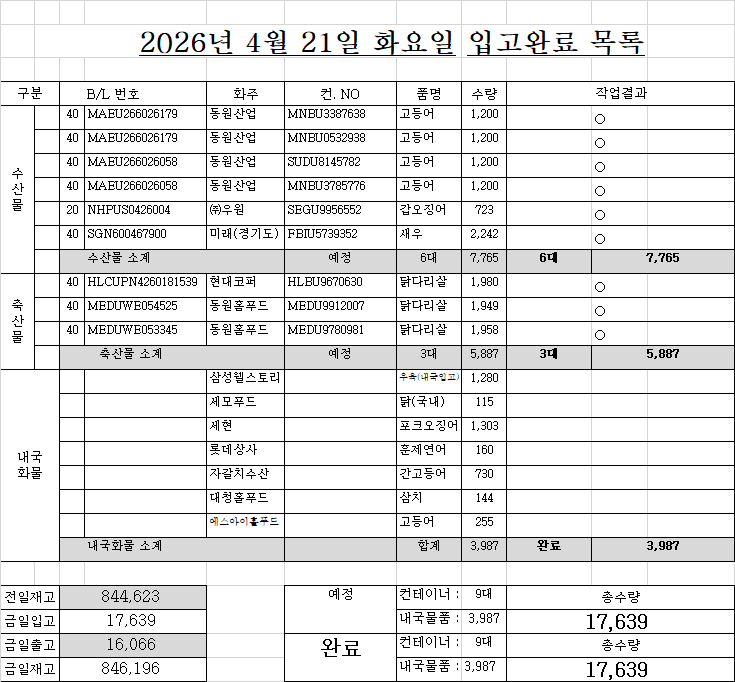
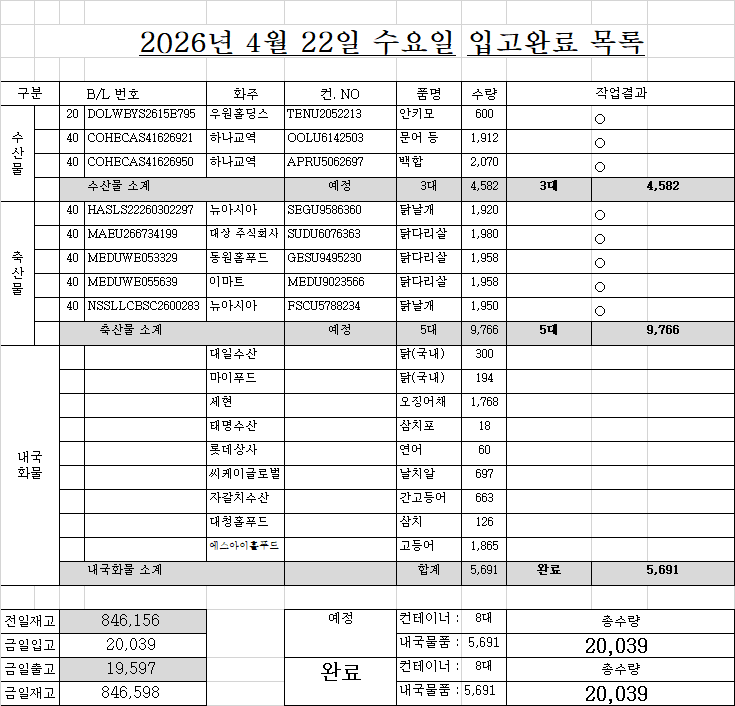
0422

diff --git a/list.html b/list.html
@@ -160,46 +160,50 @@
 </div>
 <!-- ★★★★★★ 따로 빼 놔야한다. 복붙하면 첫칸 비어도 되는데, 여기서는 첫칸비우면 당겨진다. -->
 <!-- ★ 엑셀범위를 브라우저 textarea에 붙여넣으면 첫셀 비어도 제대로 되는데... HTML에 붙여놓은 자료는 처음셀이 비어있으면 당겨짐 -->
-<div class="d-none" id="원본text_리스트1부터w요약열까지">작성	면허	B/LNO.	화주	컨테이너NO.	품명	수량	반입NO.	입항일	구분	도착일	도착시간	구분	운도VBA	04/21 화 16:44	화찰BL	화찰 선명	화물관리번호	화찰수량	화찰중량	화찰입항	리스트시트기준열	
-1		DOLWBYS2616E795	우원홀딩스	TENU2052213	안키모	600 		4/15	1			20	SS북항인터7부두								04/21 화 16:44	
-1	○	COHECAS41626921	하나교역	OOLU6142503	문어 등	1,912 		4/20	1	4/21	08:31			(주)에스에스물류, CY : 신선대감만터미널(주) 신선대CY, 컨진행 : 반출완료, 선사 : 코스코쉬핑한국(주), 포딩 : 주식회사 글로벌해현	COHECAS41626921	COSCO FOS	26COHEF416I-8801-0001	1,912 	20,900.00 	2026.04.20	조회정보	
-1	○	COHECAS41626950	하나교역	APRU5062697	백합	2,070 		4/20	1					(주)케이씨티시, CY : 케이씨티시우암컨테이너보세창고, 컨진행 : 보세운송 신고 수리, 선사 : 코스코쉬핑한국(주), 포딩 : 주식회사 글로벌해현	COHECAS41626950	COSCO FOS	26COHEF416I-6001-0001	2,070 	24,240.00 	2026.04.20	적재	57
-1		NSSLLCBSC2600280	뉴아시아	SZLU9370821	닭날개	1,950 		4/11	2				BPT신선대	면허?, CY : 신선대감만터미널(주) 신선대CY, 컨진행 : 반입완료, 선사 : 범주해운(주)	NSSLLCBSC2600280	PANCON BRIDGE	26PCLUBK05I-3029-	1,950 	24,765.00 	2026.04.11	4,617 	3줄
-1	○	HASLS22260302297	뉴아시아	SEGU9586360	닭날개	1,920 		4/18	2				BPT신선대	에이스로지스틱(주), CY : 신선대감만터미널(주) 신선대CY, 컨진행 : 보세운송 신고 수리, 선사 : 흥아라인 주식회사	HASLS22260302297	HEUNG-A HOCHIMINH	26HASL0553I-2064-	1,920 	24,000.00 	2026.04.18	6,156 	4줄
-1	○	MAEU266734199	대상 주식회사	SUDU6076363	닭다리살	1,980 		4/18	2	4/21	14:38			(주)골든로지텍, CY : 부산신항만(주)자유무역지역, 컨진행 : 반출완료, 선사 : 한국머스크(주)	MAEU266734199	MAERSK CAP JERVIS	26MAEU0235I-1089-	1,980 	24,924.24 	2026.04.18	7,695 	5줄
-1	○	MEDUWE053329	동원홈푸드	GESU9495230	닭다리살	1,958 		4/18	2	4/20	11:58		확인안함	천일정기화물자동차(주), CY : 부산신항만(주)자유무역지역, 컨진행 : 반출완료, 선사 : 엠에스씨코리아(주)	MEDUWE053329	MSC IVANA	26MSCU6113I-0220-	1,958 	24,486.70 	2026.04.18	9,234 	6줄
-1	○	MEDUWE055639	이마트	MEDU9023566	닭다리살	1,958 		4/18	2				확인안함	(주)에스에스물류, CY : 부산신항만(주)자유무역지역, 컨진행 : 보세운송 신고 수리, 선사 : 엠에스씨코리아(주)	MEDUWE055639	MSC IVANA	26MSCU6113I-0232-	1,958 	24,450.75 	2026.04.18	구분	대수
-1		NSSLLCBSC2600283	뉴아시아	FSCU5788234	닭날개	1,950 		4/19	2				허치슨감만	면허?, CY : 신감만 한국허치슨(주) 컨테이너 보세창고, 컨진행 : 반입완료, 선사 : 천경해운(주)	NSSLLCBSC2600283	SKY CHALLENGE	26CKCO0425I-3004-	1,950 	24,765.00 	2026.04.19	출고입고	4주간
-1	○	HLCUPN4260178090	대상 주식회사	HLXU8771686	닭발	1,567 		4/20	2					면허?, CY : 부산신항만(주)자유무역지역, 컨진행 : 반입완료, 선사 : 한국머스크(주)	HLCUPN4260178090	MAERSK SARNIA	26MAEU0237I-7654-	1,567 	24,304.17 	2026.04.20	1일 7/5	9바닥줄
-1	○	HLCUPN4260178089	대상 주식회사	HLBU9393500	닭발	1,567 		4/20	2					면허?, CY : 부산신항만(주)자유무역지역, 컨진행 : 반입완료, 선사 : 한국머스크(주)	HLCUPN4260178089	MAERSK SARNIA	26MAEU0237I-7653-	1,567 	24,304.17 	2026.04.20	14,836 	9.6
-2	○	ONEYSCLG05282400	롯데상사	ONEU9431941	연어	662 		4/19	1				PNIT	(주)에스에스물류, CY : 부산신항국제터미널(주), 컨진행 : 보세운송 신고 수리, 선사 : 하파그로이드코리아(주)	ONEYSCLG05282400	LIMA EXPRESS	26HLCU9405I-5007-	662 	22,963.98 	2026.04.19	14,818 	9.6
-2	○	LMM0576989	삼영수산	SZLU5078410	오징어	1,100 		4/21	1				BNCT		LMM0576989	APL CHARLESTON	26CMAL0174I-2043-	2,200 	48,020.00 	2026.04.21	내국제외	
-2	○	LMM0576989	삼영수산	SZLU5081918	오징어	1,100 		4/21	1				BNCT		LMM0576989	APL CHARLESTON	26CMAL0174I-2043-	2,200 	48,020.00 	2026.04.21	구분	대수
-2	○	LMM0576990	삼영수산	TEMU9420669	오징어	1,100 		4/21	1				BNCT	(주)이지트랜스, CY : (주)비엔씨티(CY), 컨진행 : 보세운송 신고 수리, 선사 : 씨엠에이씨지엠	LMM0576990	APL CHARLESTON	26CMAL0174I-2044-	2,200 	48,670.00 	2026.04.21	수산	19 
-2	○	LMM0576990	삼영수산	CGMU9399722	오징어	1,100 		4/21	1				BNCT	(주)이지트랜스, CY : (주)비엔씨티(CY), 컨진행 : 보세운송 신고 수리, 선사 : 씨엠에이씨지엠	LMM0576990	APL CHARLESTON	26CMAL0174I-2044-	2,200 	48,670.00 	2026.04.21	축산	56 
-2	○	SMLMSGN6A2122500	씨에이치씨	FBIU7512619	새우	1,000 		4/21	1			20		면허?, CY : 신감만 한국허치슨(주) 컨테이너 보세창고, 컨진행 : 반입완료, 선사 : 남성해운주식회사	SMLMSGN6A2122500	STARSHIP PEGASUS	26NSSLD077I-0003-	1,000 	7,200.00 	2026.04.21	합계	75 
+<div class="d-none" id="원본text_리스트1부터w요약열까지">작성	면허	B/LNO.	화주	컨테이너NO.	품명	수량	반입NO.	입항일	구분	도착일	도착시간	구분	운도VBA	04/22 수 16:25	화찰BL	화찰 선명	화물관리번호	화찰수량	화찰중량	화찰입항	리스트시트기준열	
+1	○	ONEYSCLG05282400	롯데상사	ONEU9431941	연어	662 		4/19	1				PNIT	(주)에스에스물류, CY : 부산신항국제터미널(주), 컨진행 : 보세운송 신고 수리, 선사 : 하파그로이드코리아(주)	ONEYSCLG05282400	LIMA EXPRESS	26HLCU9405I-5007-	662 	22,963.98 	2026.04.19	04/22 수 16:25	
+1	○	A59GX10486	우원홀딩스	SEKU9387743	새우	1,307 		4/20	1			20			A59GX10486	KOTA GAYA	26PILK0023I-9014-	1,307 	8,626.20 	2026.04.20	조회정보	
+1	○	LMM0576989	삼영수산	SZLU5078410	오징어	1,100 		4/21	1				BNCT	(주)이지트랜스, CY : (주)비엔씨티(CY), 컨진행 : 반입완료, 선사 : 씨엠에이씨지엠	LMM0576989	APL CHARLESTON	26CMAL0174I-2043-	2,200 	48,020.00 	2026.04.21	적재	57
+1	○	LMM0576989	삼영수산	SZLU5081918	오징어	1,100 		4/21	1				BNCT	(주)이지트랜스, CY : (주)비엔씨티(CY), 컨진행 : 반입완료, 선사 : 씨엠에이씨지엠	LMM0576989	APL CHARLESTON	26CMAL0174I-2043-	2,200 	48,020.00 	2026.04.21	4,617 	3줄
+1	○	LMM0576990	삼영수산	TEMU9420669	오징어	1,100 		4/21	1				BNCT	(주)이지트랜스, CY : (주)비엔씨티(CY), 컨진행 : 반입완료, 선사 : 씨엠에이씨지엠	LMM0576990	APL CHARLESTON	26CMAL0174I-2044-	2,200 	48,670.00 	2026.04.21	6,156 	4줄
+1	○	LMM0576990	삼영수산	CGMU9399722	오징어	1,100 		4/21	1				BNCT	(주)이지트랜스, CY : (주)비엔씨티(CY), 컨진행 : 반입완료, 선사 : 씨엠에이씨지엠	LMM0576990	APL CHARLESTON	26CMAL0174I-2044-	2,200 	48,670.00 	2026.04.21	7,695 	5줄
+1	○	SMLMSGN6A2122500	씨에이치씨	FBIU7512619	새우	1,000 		4/21	1			20		(주)에스에스물류, CY : 신감만 한국허치슨(주) 컨테이너 보세창고, 컨진행 : 보세운송 신고 수리, 선사 : 남성해운주식회사	SMLMSGN6A2122500	STARSHIP PEGASUS	26NSSLD077I-0003-	1,000 	7,200.00 	2026.04.21	9,234 	6줄
+1	○	KMTCSUB2479978	씨케이글로벌	OTPU6659547	새우	1,800 		4/21	1					면허?, CY : 신감만 한국허치슨(주) 컨테이너 보세창고, 컨진행 : 반입완료, 선사 : 고려해운(주)	KMTCSUB2479978	KMTC SHIMIZU	26KMTC1331I-0175-	1,800 	21,600.00 	2026.04.21	구분	대수
+1	○	NSSLLCBSC2600280	뉴아시아	SZLU9370821	닭날개	1,950 		4/11	2				BPT신선대	에이스로지스틱(주), CY : 신선대감만터미널(주) 신선대CY, 컨진행 : 보세운송 신고 수리, 선사 : 범주해운(주)	NSSLLCBSC2600280	PANCON BRIDGE	26PCLUBK05I-3029-	1,950 	24,765.00 	2026.04.11	출고입고	4주간
+1	○	HLCUPN4260178090	대상 주식회사	HLXU8771686	닭발	1,567 		4/20	2					(주)골든로지텍, CY : 부산신항만(주)자유무역지역, 컨진행 : 보세운송 신고 수리, 선사 : 한국머스크(주)	HLCUPN4260178090	MAERSK SARNIA	26MAEU0237I-7654-	1,567 	24,304.17 	2026.04.20	1일 7/5	9바닥줄
+1	○	HLCUPN4260178089	대상 주식회사	HLBU9393500	닭발	1,567 		4/20	2					(주)골든로지텍, CY : 부산신항만(주)자유무역지역, 컨진행 : 보세운송 신고 수리, 선사 : 한국머스크(주)	HLCUPN4260178089	MAERSK SARNIA	26MAEU0237I-7653-	1,567 	24,304.17 	2026.04.20	15,536 	10.1
+1	○	MEDUR3100944	이마트	SZLU9307140	닭다리살	1,939 		4/20	2				DGT		MEDUR3100944	MSC ANGOLA	26MSCU2083I-1015-	1,939 	24,213.46 	2026.04.20	14,892 	9.7
+2	○	DJSCLCH260001019	참트레이딩	OTPU6568344	닭발	1,794 		4/21	2						DJSCLCH260001019	DONGJIN CONFIDENT	26DJSC7088I-5107-	1,794 	22,604.40 	2026.04.21	내국제외	
+2	○	LMM0578356	삼영수산	TCLU1362825	오징어	1,065 		4/22	1						LMM0578356	CMA CGM MEKONG	26CMAL0184I-2056-	2,130 	49,430.00 	2026.04.22	구분	대수
+2	○	LMM0578356	삼영수산	CRSU6156379	오징어	1,065 		4/22	1						LMM0578356	CMA CGM MEKONG	26CMAL0184I-2056-	2,130 	49,430.00 	2026.04.22	수산	21 
+2	○	HASLS22260400234	뉴아시아	FSCU5894220	닭날개	1,940 		4/23	2				?????,BPT신선대		HASLS22260400234	PEGASUS PROTO	26NSSLD076I-3520-	1,940 	24,444.00 	2026.04.23	축산	55 
+		ONEYSAOG06681903	수월한	OTPU6351240	닭다리살	1,917 		4/6	2												합계	76 
 		ONEYSAOG06681909	씨제이프레시웨이㈜	ONEU9276911	닭다리살	1,960 		4/6	2				DGT	면허?, CY : 동원글로벌터미널부산(주), 컨진행 : 반입완료, 선사 : 에이치엠엠(주)	ONEYSAOG06681909	HMM PRIVILEGE	26HDMUA192I-5137-	1,960 	24,500.00 	2026.04.06		
 		HDMUSGNA24257302	우원홀딩스	HMMU5200300	새우	971 		4/14	1			20									화주	대수
-		ONEYSAOG07895304	씨제이프레시웨이㈜	FSCU5734201	닭다리살	1,960 		4/15	2				HPNT	면허?, CY : 에이치엠엠피에스에이신항만(주), 컨진행 : 반입완료, 선사 : 에이치엠엠(주)	ONEYSAOG07895304	HMM TOPAZ	26HDMUA241I-5028-	1,960 	24,500.00 	2026.04.15	수월한	18
-		HLCUPN4251170322	대상 주식회사	TCLU1206479	닭발	1,567 		4/18	2												삼영수산	6
-		MAEUJBS307152	동원홈푸드	MNBU3009140	닭다리살	1,958 		4/18	2				PNC			MAERSK CAP JERVIS					이마트	6
-		KMTCSUB2479978	씨케이글로벌	OTPU6659547	새우	1,800 		4/21	1					면허?, CY : 신감만 한국허치슨(주) 컨테이너 보세창고, 컨진행 : 하선신고 수리완료, 선사 : 고려해운(주)	KMTCSUB2479978	KMTC SHIMIZU	26KMTC1331I-0175-	1,800 	21,600.00 	2026.04.21	㈜이마트	6
-		SNG0499365	(유)SM무역	CGMU5228953	오징어	1,200 		4/22	1				BNCT			APL CHARLESTON(ACSAE)					씨케이글로벌	4
-		NWONB26W23013	세현	AXIU6079117	오징어	1,200 		4/23	1												뉴아시아	4
-		HASLS22260400234	주식회사 뉴아시아 (동일)	FSCU5894220	닭날개	1,940 		4/23	2				?????,BPT신선대			PEGASUS PROTO					대성무역	4
-		ACD878813	씨케이글로벌	CGMU5828731	홍합	2,063 		4/24	1				DGT			SITC YUNCHENG(KCM)					대상 주식회사	4
-		MAEUJBS308071	수월한	MNBU4229278	닭다리살	1,903 		4/25	2				PNC			REN JIAN 15					동원홈푸드	3
-		MAEUJBS306678	열호통상	MNBU4342598	닭다리살	1,958 		4/25	2												씨제이프레시웨이㈜	3
-		MAEUJBS306867	열호통상	MNBU4094357	닭다리살	1,958 		4/25	2												하나교역	3
-		MEDUR3101108	이마트	MSGU9029710	닭다리살	1,939 		4/25	2				확인안함			ONE STRENGTH 					열호통상	2
-		HDMUSAOA57737801	대성무역	HDMU5575951	닭다리살	1,960 		4/27	2				HPNT			HYUNDAI TOKYO					우원홀딩스	2
-		HDMUSAOA57737815	대성무역	HMMU5458172	닭다리살	1,960 		4/27	2				HPNT			HYUNDAI TOKYO					참트레이딩	2
-		HDMUSAOA57737816	대성무역	HMMU5461849	닭장각	1,568 		4/27	2				HPNT			HYUNDAI TOKYO					씨에이치씨	2
-		HDMUSAOA57737812	수월한	HDMU5640194	닭다리살	1,960 		4/27	2				HPNT								아스트로스	2
-		HDMUSAOA93235100	수월한	BMOU9797833	닭다리살	1,917 		4/27	2				HPNT								세현	1
-		HLCUPN4260159520	참트레이딩	TEMU9059746	닭발	1,522 		4/27	2				PNC			MAERSK SANTANA					주식회사 뉴아시아 (동일)	1
-		MEDUHI744218	수월한	TTNU8485307	닭다리살	1,958 		4/28	2				확인안함			SEASPAN BELIEF					롯데상사	1
-		LMM0579166	삼영수산	TTNU8014312	오징어	1,100 		4/30	1				확인안함			CMA CGM VELA 					(유)SM무역	1
+		ONEYSAOG07895300	수월한	FSCU5859770	닭다리살	1,917 		4/15	2												수월한	18
+		ONEYSAOG07895304	씨제이프레시웨이㈜	FSCU5734201	닭다리살	1,960 		4/15	2				HPNT	면허?, CY : 에이치엠엠피에스에이신항만(주), 컨진행 : 반입완료, 선사 : 에이치엠엠(주)	ONEYSAOG07895304	HMM TOPAZ	26HDMUA241I-5028-	1,960 	24,500.00 	2026.04.15	삼영수산	7
+		HLCUPN4251170322	대상 주식회사	TCLU1206479	닭발	1,567 		4/18	2												우원홀딩스	6
+		MAEUJBS307152	동원홈푸드	MNBU3009140	닭다리살	1,958 		4/18	2				PNC			MAERSK CAP JERVIS					㈜이마트	6
+		NSSLLCBSC2600310	뉴아시아	SZLU9370797	닭날개	1,925 		4/22	2												이마트	5
+		SITRDAPU074374	씨에이치씨	AAMU9000930	새우	896 		4/22	1			20		면허?, CY : 신선대감만터미널(주) 감만CY, 컨진행 : 하선신고 수리완료, 선사 : 에스아이티씨컨테이너 라인스(주)	SITRDAPU074374	SITC SHANDONG	26SCLK3061I-0113-	896 	6,720.00 	2026.04.22	마이푸드	5
+		NWONB26W23013	세현	AXIU6079117	오징어	1,200 		4/23	1												씨케이글로벌	4
+		ACD878813	씨케이글로벌	CGMU5828731	홍합	2,063 		4/24	1				DGT			SITC YUNCHENG(KCM)					대성무역	4
+		HDMUSGNA51257900	우원홀딩스	HDMU5225260	새우	930 		4/24	1			20									뉴아시아	3
+		HDMUSGNA94312300	우원홀딩스	HMMU5205430	새우	671 		4/24	1			20									씨제이프레시웨이㈜	3
+		HDMUSGNA16485900	우원홀딩스	HDMU5222240	새우	821 		4/24	1			20									대상 주식회사	3
+		MAEUJBS308071	수월한	MNBU4229278	닭다리살	1,903 		4/25	2				PNC			REN JIAN 15					열호통상	2
+		MAEUJBS306678	열호통상	MNBU4342598	닭다리살	1,958 		4/25	2												씨에이치씨	2
+		MAEUJBS306867	열호통상	MNBU4094357	닭다리살	1,958 		4/25	2												동원홈푸드	2
+		DJSCBKK260000830	우원홀딩스	DJLU2900250	새우	1,300 		4/25	1			20									아스트로스	2
+		MEDUR3101108	이마트	MSGU9029710	닭다리살	1,939 		4/25	2				확인안함			ONE STRENGTH 					참트레이딩	2
+		HDMUSAOA57737801	대성무역	HDMU5575951	닭다리살	1,960 		4/27	2				HPNT			HYUNDAI TOKYO					롯데상사	1
+		HDMUSAOA57737815	대성무역	HMMU5458172	닭다리살	1,960 		4/27	2				HPNT			HYUNDAI TOKYO					세현	1
+		HDMUSAOA57737816	대성무역	HMMU5461849	닭장각	1,568 		4/27	2				HPNT			HYUNDAI TOKYO						
+		HDMUSAOA57737812	수월한	HDMU5640194	닭다리살	1,960 		4/27	2				HPNT									
+		HDMUSAOA93235100	수월한	BMOU9797833	닭다리살	1,917 		4/27	2				HPNT									
+		HLCUPN4260159520	참트레이딩	TEMU9059746	닭발	1,522 		4/27	2				PNC			MAERSK SANTANA						
+		MEDUHI744218	수월한	TTNU8485307	닭다리살	1,958 		4/28	2				확인안함			SEASPAN BELIEF						
+		LMM0579166	삼영수산	TTNU8014312	오징어	1,100 		4/30	1				확인안함			CMA CGM VELA 						
 		MAEUJBS306118	수월한	MMAU1200271	닭다리살	1,849 	PNC	5/2	2	CY			PNC			GRASMERE MAERSK						
 		MAEUJBS306548	수월한	MMAU1120807	닭다리살	1,729 	PNC	5/2	2	CY			PNC			GRASMERE MAERSK						
 		MAEUJBS304411	이마트	MMAU1196269	SR조각정육(하프컷)			5/2	2	CY			PNC			GRASMERE MAERSK						
@@ -210,7 +214,6 @@
 		MEDUR3138142	수월한	MEDU9095680	닭다리살	1,942 		5/7	2				확인안함			ANTHEA Y						
 		MEDUHI738384	아스트로스	MEDU9087724	닭다리살	1,875 		5/8	2				확인안함			MSC PINA						
 		MEDUKO026547	수월한	FSCU5682052	닭다리살	1,917 		5/9	2				DGT			ZEPHYR LUMOS(MS2W)						
-		MEDUR3100944	이마트	SZLU9307140	닭다리살	1,939 		5/9	2				DGT			ZEPHYR LUMOS(MS2W)						
 		MEDUR3113012	수월한	FSCU5782597	닭다리살	1,941 		5/10	2				확인안함			CAPE ARTEMISIO						
 		MEDUR3128275	수월한	MEDU9346424	닭다리살	1,939 		5/10	2				확인안함			CAPE ARTEMISIO						
 		MEDUR3101496	㈜이마트	FSCU5778220	닭다리살			5/12	2				?????,확인안함			MSC ORION						
@@ -222,18 +225,21 @@
 		MEDUWE071701	수월한	HJMU6102738	닭발	1,566 			2							APE ARTEMISIO						
 		MEDUR3104979	㈜이마트	FSCU5795064	닭다리살			미정	2				?????,확인안함			CAPE ARTEMISIO						
 		HDMUBKKA99098300	뉴아시아	TEMU9677364	닭날개	1,950 			2													
+		SSZ1756638	마이푸드	CGMU5343746	닭다리살	1,960 			2													
+		MEDUHI734193	마이푸드	TRIU8678810	닭다리살	1,958 			2													
+		HDMUSAOA93235101	마이푸드	HMMU5552513	닭다리살	1,960 			2													
+		HDMUSAOA57737809	마이푸드	HDMU5638005	닭다리살	1,960 			2													
+		HDMUSAOA57737804	마이푸드	HDMU5622225	닭다리살	1,960 			2													
 		MEDUFX960938	수월한	MEDU9109741	닭다리살	1,917 	???		2				천일정기화물PNIT			MSC BREMERHAVEN V						
 		MAEUJBS309033	수월한	MNBU3291048	닭다리살	1,953 			2													
 		MAEUJBS3054996123784	수월한	SUDU6123784	닭다리살	1,889 			2													
 		HDMUSAOA01220400	수월한	HMMU5490657	닭다리살	1,958 			2													
 		MAEUJBS309194	수월한	MNBU3736792	닭다리살	1,788 			2													
 		ONEYSAOG14500500	수월한	TTNU8744500	닭다리살	1,958 			2													
-		SITRDAPU074374	씨에이치씨	AAMU9000930	새우	896 			1			20										
 		HDMUSAOA57737813	씨제이프레시웨이㈜	HDMU5643336	닭다리살	1,960 			2													
 		SITRRIPU040355	씨케이글로벌	CAIU5186862	새우	1,550 	???		1													
 		OOCL2317300180	씨케이글로벌	FSCU5984155		1,382 	???		1							CMA CGM PRIDE						
 		MAEUJBS305601	이마트	MNBU3348035	닭다리살	1,942 			2													
-		DJSCLCH260001019	참트레이딩	OTPU6568344	닭발	1,794 			2													
 </div>
 <div class="d-none" id="원본text_입항관리도크부터도착항우측까지">도크	화주	컨테이너	작업순서	상세내용 참조		운송사	물품		06/05 목 16:15	B/L	도착항	상세내용
 </div>   
